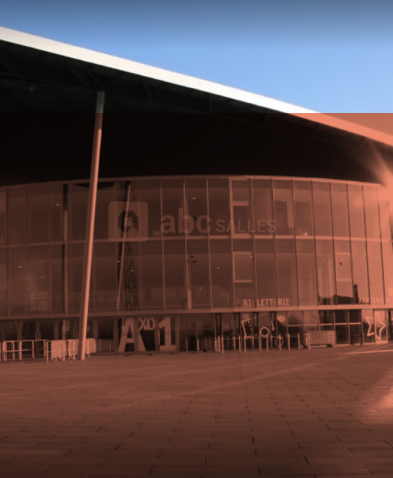
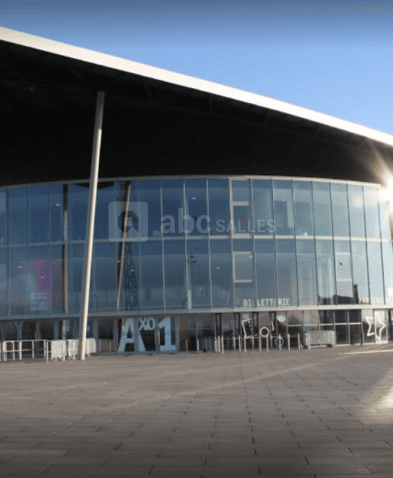
ajout sur la page d'accueil

diff --git a/index.html b/index.html
@@ -9,11 +9,99 @@
     <meta charset="UTF-8">
     <meta name="viewport" content="width=device-width, initial-scale=1.0">
     <title>Vis'Sport</title>
-    <img src="/assets/Icons/Logo-complet.svg" alt="Logo-complet">
-    
-</head>
 
+
+
+
+  <link rel="stylesheet" href="/src/css/style.css" />
+  <script type="module" src="/src/js/script.js"></script>
+</head>
 <body>
+  <header class="header">
+    <a class="header__logo-link" href="/index.html">
+      <img
+        class="header__logo"
+        src="/assets/Icons/Logo-complet.svg"
+        alt="Logo Bbrands Agency"
+      />
+    </a>
+
+    <button
+      class="header__menu-btn menu-btn"
+      aria-label="menu"
+      aria-expanded="false"
+      aria-controls="mainNav"
+    >
+      <span class="menu-btn__bar" aria-hidden="true"></span>
+    </button>
+
+    <nav class="header__menu menu" id="mainNav" aria-hidden="true">
+      <ul class="menu__list list-unstyled">
+        <li class="menu__item">
+          <a class="menu__link" href="index.html">Accueil</a>
+        </li>
+        <li class="menu__item">
+          <a class="menu__link" href="Info-pratique.html">Info Pratique</a>
+        </li>
+        <li class="menu__item">
+          <a class="menu__link" href="contact.html">Nous Contacter</a>
+        </li>
+        <li class="menu__item">
+          <a class="menu__link" href="nos-invites.html">Nos invités</a>
+        </li>
+        <li class="menu__item">
+            <a class="menu__link" href="proggramations.html">Programmation</a>
+          </li>
+          <li class="menu__item">
+            <a class="menu__link" href="a-propos.html">À Propos</a>
+          </li>
+          <li class="menu__item">
+            <a class="menu__link" href="billeterie.html">Billeterie</a>
+          </li>
+          <li class="menu__item">
+            <a class="menu__link" href="Programme.html">Programme</a>
+          </li>
+      </ul>
+      
+            
+          
+        
+      </div>
+    </nav>
+  </header>
+  <main>
+    <div class="hero hero--home">
+      <img src="/assets/Image/photo-accueil-philtré.png" alt="Image Accueil">
+      <h1 class="hero__title hero__title--home">Bienvenue au Festival Vis'Sport</h1>
+      <p class="hero__chapo">  
+      <h3 class ="hero__subtitle subtitle--home">L’endroit où le Sport et l’Audiovisuel se Rencontrent !</h3>
+      <small class="hero__small-texte small-texte--home"> septembre 2025</small> </p>
+      
+       <div>
+      <div class="contenu contenu--accueil">
+        <header class="contenu__header header--accueil">
+          <a href="/Info-pratique.html">
+          <button class="contenu__button-header button-header--accueil">INFORMATION SUR LE LIEU</button>
+        </a>
+        <h2 class="titre__header titre-header--accueil">Un Festival Unique, Alliant Sport et Cinéma !</h2>
+        </header>
+        <p class="contenu__texte texte--accueil">
+          Le Vis'Sport est bien plus qu’un événement : c’est une immersion dans le sport et l’audiovisuel. Découvrez des films captivants, rencontrez des athlètes et participez à des ateliers créatifs pour tous les âges. </p>
+          <p class="contenu__texte2 texte2--accueil">Rejoignez-nous pour trois jours de découvertes et de partage autour du sport et de ses récits fascinants au cinéma. Une occasion unique d’explorer des sports variés et de vivre des moments inoubliables en famille ou entre amis.</p>
+          <img class="contenu__affiche affiche--accueil" src="/assets/Image/Affiche-du-festival.png" alt="Affiche du festival">
+          <h2 class="contenu__titre1 titre1__accueil">Ce Qui Vous Attend :</h2>
+          <section class="contenu__liste liste--accueil">
+          <li class="contenu__titre-liste titre-liste--accueil">Projections de Films</li>
+          <p class="contenu__texte-liste texte-liste--accueil">Découvrez une sélection de films uniques, tous liés à l'univers du sport : compétitions épiques, parcours de champions, défis personnels… Une programmation riche et variée vous attend !</p>
+          </section>
+
+
+      </div>
+      
+    
+  </main>
+<body>
+
     
 </body>
 </html>

diff --git a/src/css/style.css b/src/css/style.css
@@ -1,0 +1,13 @@
+/*fonts*/
+@import url('https://fonts.googleapis.com/css2?family=Anton+SC&family=Inter:wght@100;200;300;400;500;600;700;800;900&family=Playfair+Display:wght@700&display=swap');
+@import url('https://fonts.googleapis.com/css2?family=Anton+SC&family=Inter:wght@100;200;300;400;500;600;700;800;900&family=Oswald:wght@200..700&family=Playfair+Display:wght@700&display=swap');
+
+/*utils*/
+@import "/src/css/utils/variables.css";
+
+/*base*/
+@import "/src/css/base/main.css";
+@import "/src/css/base/media.css";
+
+/*vendors*/
+@import "/src/css/vendors/normalize.css";

diff --git a/src/css/utils/variables.css b/src/css/utils/variables.css
@@ -1,0 +1,14 @@
+/* Collection 1 */
+:root {
+    /* Mode 1 */
+    /* color */
+    --beige: #ee8b6e;
+    --blanc: #ffffff;
+    --bordeau: #a21f2f;
+    --couleur-de-fond: #670612;
+    --jaune: #ffcc59;
+    --noir: #1e1e1e;
+    --orange-vif: #f03417;
+    --marron-foncé: #632c31;
+    --orange-clair: #bf5525;
+  }
